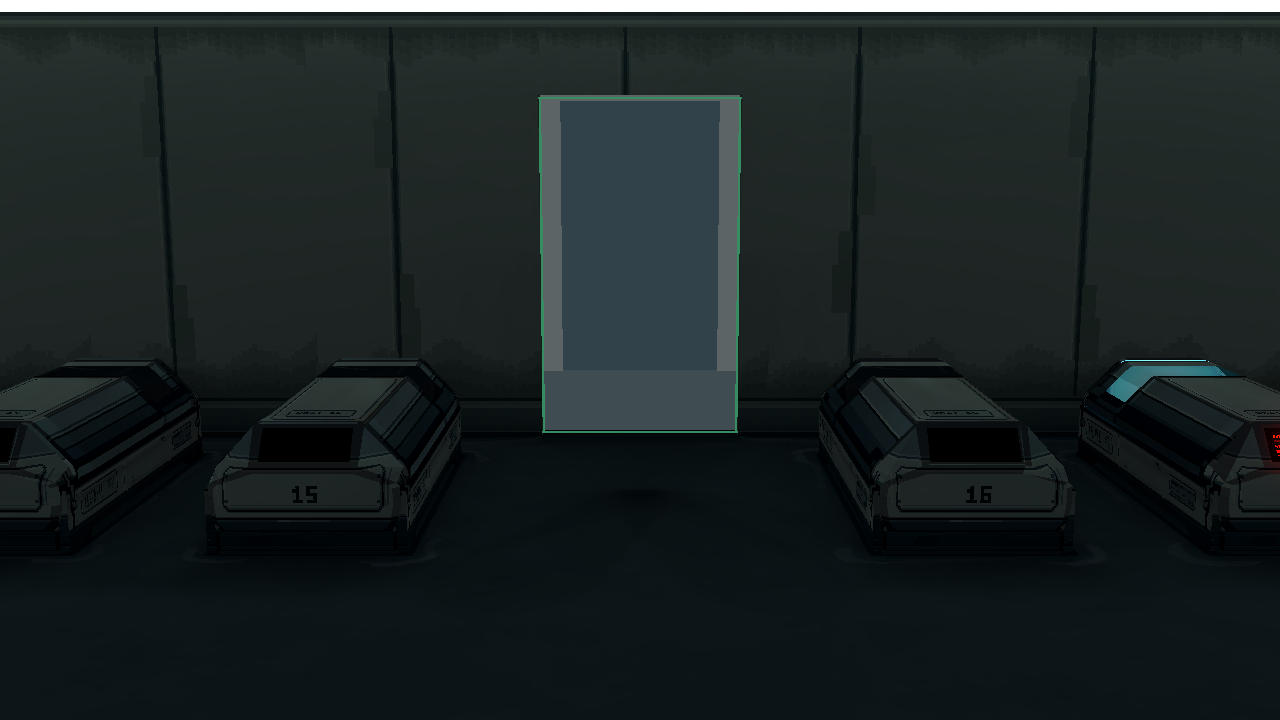
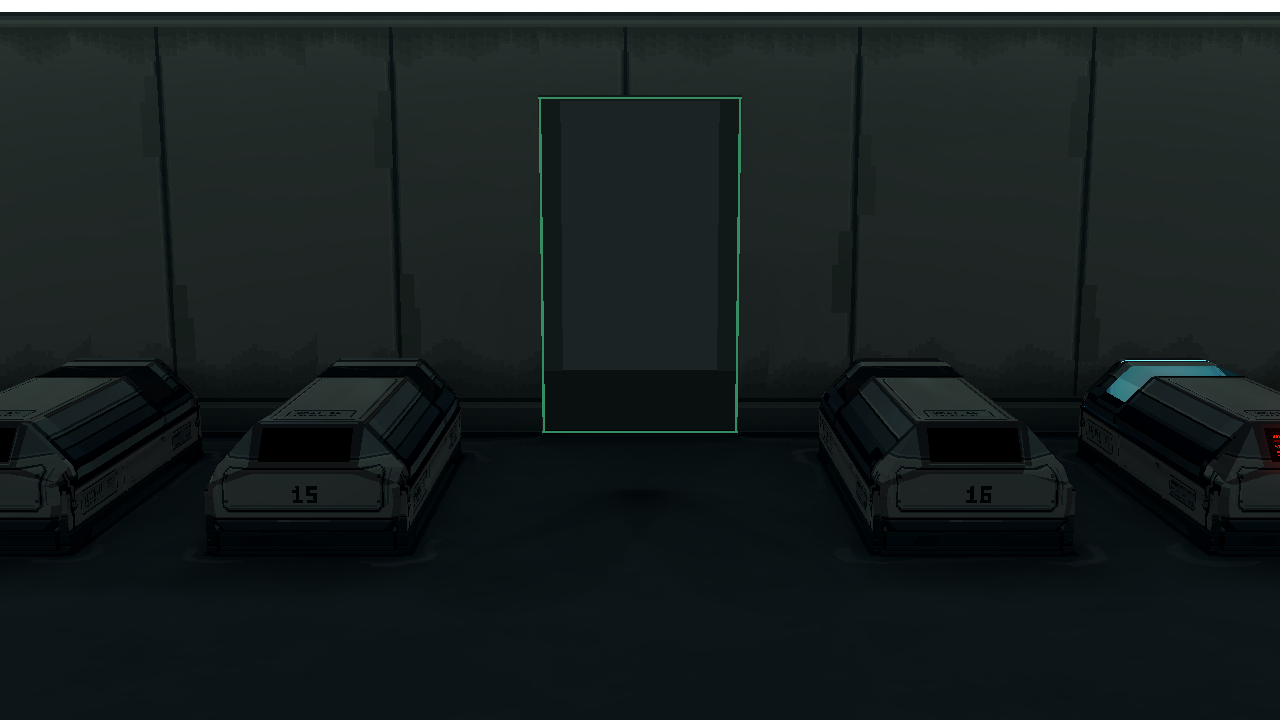
Tone down doorway route greybox in door art review

Changed region(s): [[0.4062, 0.1222, 0.5938, 0.6111]]

diff --git a/docs/art/experiments/room1_integrated_door_v3/preview.html b/docs/art/experiments/room1_integrated_door_v3/preview.html
@@ -13,6 +13,6 @@ body{margin:0;background:#111a1c;color:#dce5e2;font:16px/1.5 system-ui,sans-seri
 <section><h2>认证与通行</h2><div class="grid">
 <div class="card"><img src="evidence/yellow_scanning.png" alt="小窗黄闪"><b>认证中：只在小窗黄闪</b></div>
 <div class="card"><img src="evidence/green_opening.png" alt="绿灯与侧滑"><b>获准：小窗与门洞四边绿灯，门侧滑</b></div>
-<div class="card"><img src="evidence/green_open.png" alt="门打开"><b>通行中：四边仍为绿色；门外是未定光照的走廊灰模</b></div>
+<div class="card"><img src="evidence/green_open.png" alt="门打开"><b>通行中：四边仍为绿色；门外是临时压暗的走廊灰模</b></div>
 <div class="card"><img src="evidence/red_denied_window_only.png" alt="小窗红色拒绝"><b>拒绝：只在小窗红色，门框无红光</b></div>
 </div></section><small>截图来自实际 Godot 场景，不是 Blender 渲染或像素贴图单独预览。</small></main></html>

diff --git a/docs/art/experiments/room1_integrated_door_v3/README.md b/docs/art/experiments/room1_integrated_door_v3/README.md
@@ -30,6 +30,6 @@ Godot 打开审图场景即可看自动感应、门板侧滑及由 Room 1 走到
 
 ## 仍需审查
 
-- 门洞外的 4F 走廊目前仍是高亮度辨识灰模；开门时会看到明显的灰色走廊面。走廊光照尚未设计，这部分不能视作最终门内侧美术。
+- 门洞外的 4F 走廊仍是辨识灰模。本审图场景临时压低了入口墙、地面和对面锁闭占位门的预览亮度，避免开门时出现亮灰矩形；这不决定走廊的最终配色、材质或灯光。
 - 门面与后墙的对接已按当前 Godot 室内镜头修正，但其他镜头、正式动态光照和不同灯带状态仍需后续查看。
 - 本轮曾试用 PixelLab 生成一张门材质候选，结果偏恐怖片式机械格栅，已明确弃用，未进入最终贴图或 GLB。本版为可编辑的人工控制像素图层，不把那张生成图冒充已通过审查的素材。
